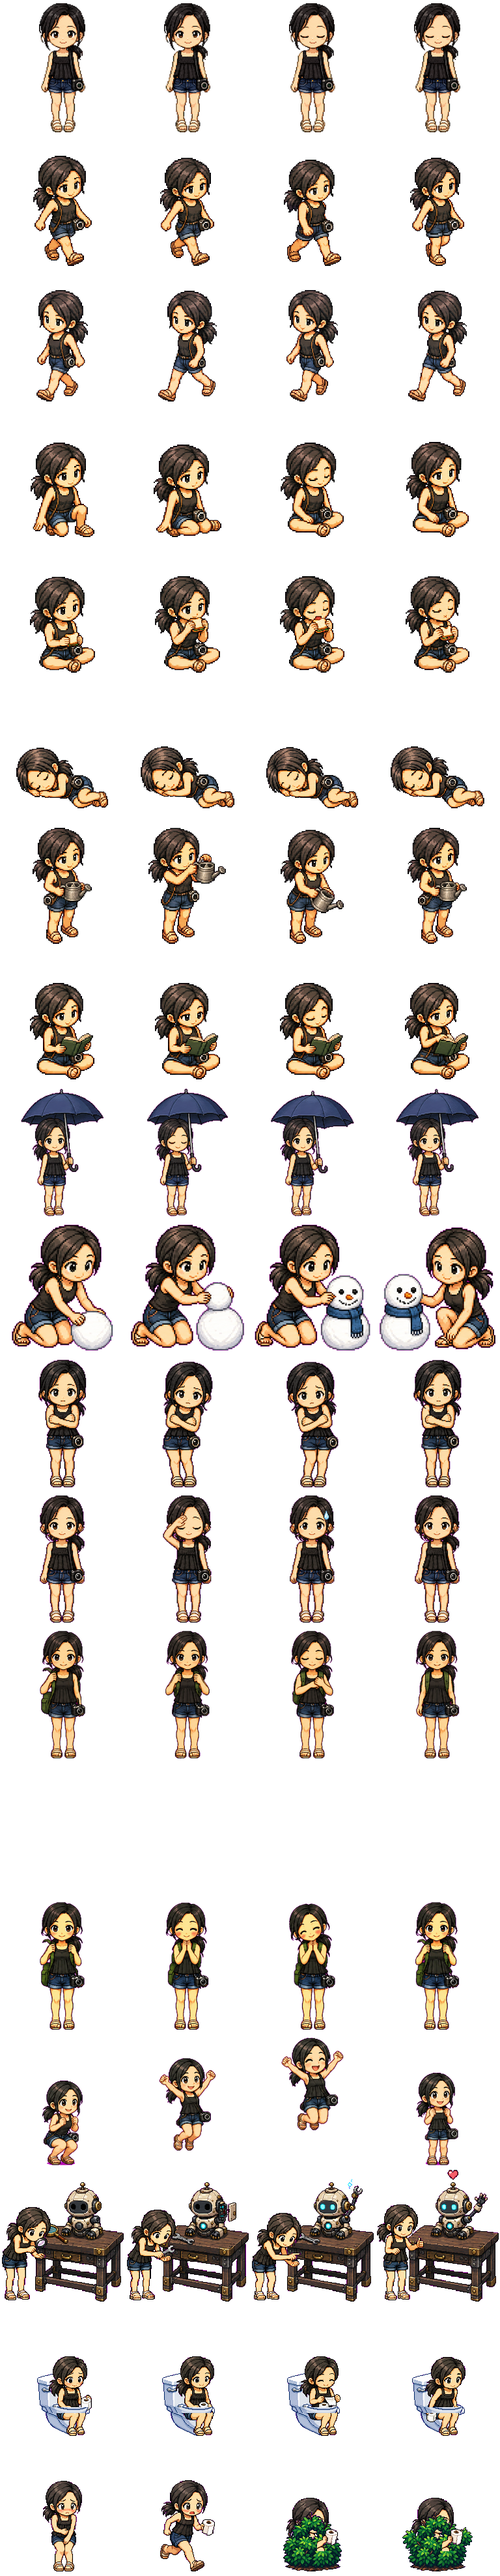
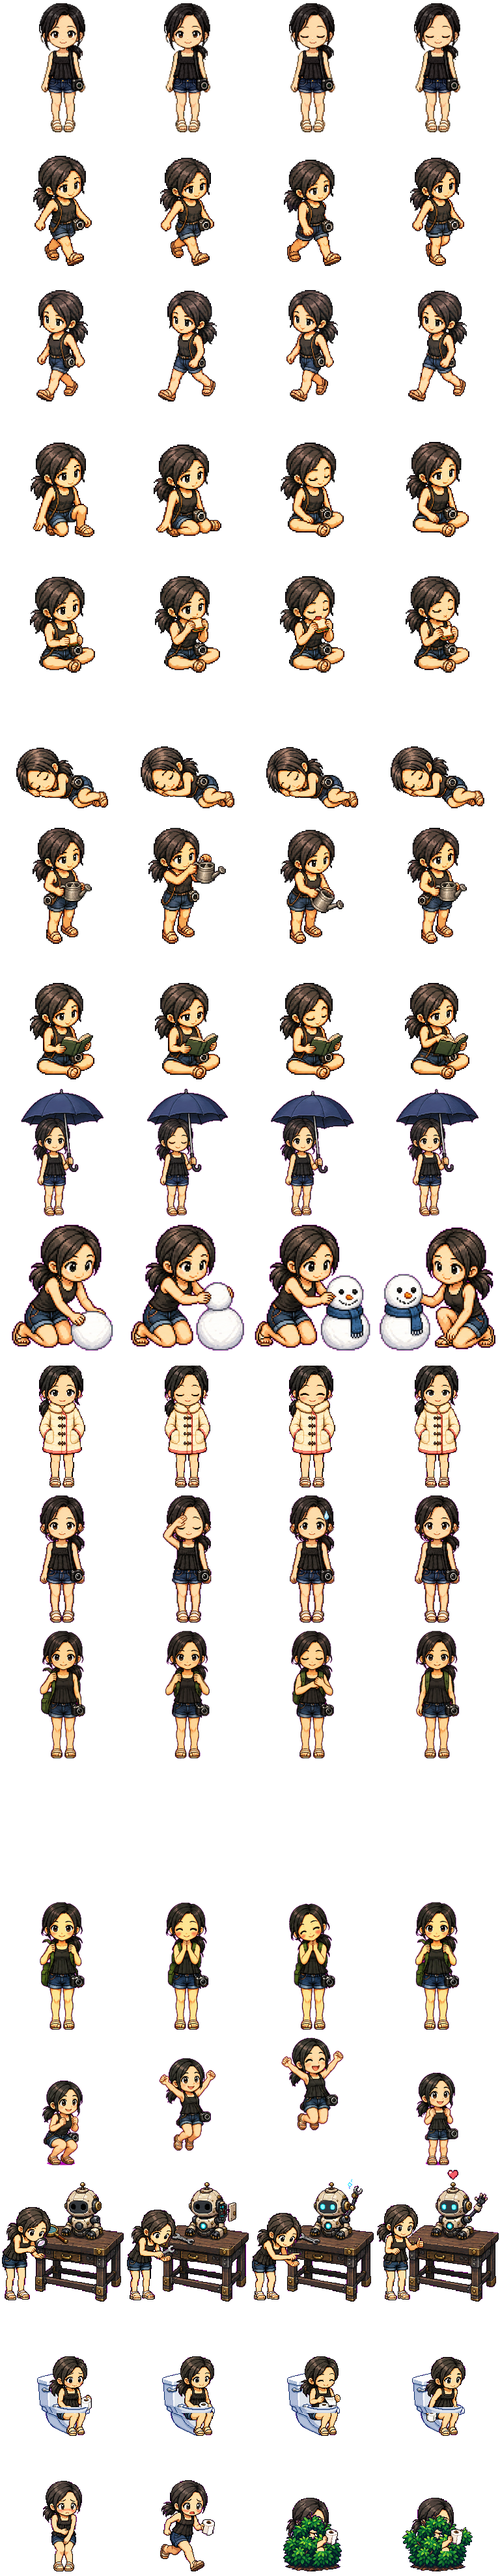
Replace cold shiver with cozy winter coat

diff --git a/tools/composite_generated_life_rows.py b/tools/composite_generated_life_rows.py
@@ -41,6 +41,12 @@ BUSH_BOXES = [
     (122, 160, 684, 730),
     (947, 161, 1621, 732),
 ]
+WINTER_COAT_BOXES = [
+    (165, 107, 393, 725),
+    (637, 107, 864, 725),
+    (1109, 107, 1337, 725),
+    (1581, 107, 1808, 725),
+]
 
 
 def chroma_key(image: Image.Image) -> Image.Image:
@@ -119,6 +125,35 @@ def build_mechanic_row(root: Path) -> Image.Image:
         sophie_position = (3, CELL_HEIGHT - sophie.height - 7)
         composite_checked(cell, prop, prop_position, "mechanic props")
         composite_checked(cell, sophie, sophie_position, "mechanic Sophie")
+        row.alpha_composite(cell, (frame * CELL_WIDTH, 0))
+    return row
+
+
+def build_winter_coat_row(root: Path) -> Image.Image:
+    sheet = Image.open(root / "art/weather-actions/winter-coat.png")
+    sprites = [extract(sheet, box) for box in WINTER_COAT_BOXES]
+    if len(sprites) != FRAME_COUNT:
+        raise ValueError("Winter-coat source frame count is not four")
+    row = Image.new("RGBA", (CELL_WIDTH * FRAME_COUNT, CELL_HEIGHT))
+    for frame, sprite in enumerate(sprites):
+        cell = Image.new("RGBA", (CELL_WIDTH, CELL_HEIGHT))
+        alpha = sprite.getchannel("A")
+        alpha.paste(
+            0,
+            (
+                0,
+                0,
+                sprite.width,
+                15,
+            ),
+        )
+        sprite.putalpha(alpha)
+        sprite = resize(sprite, 0.31)
+        position = (
+            round((CELL_WIDTH - sprite.width) / 2),
+            CELL_HEIGHT - sprite.height - 6,
+        )
+        composite_checked(cell, sprite, position, "winter-coat Sophie")
         row.alpha_composite(cell, (frame * CELL_WIDTH, 0))
     return row
 
@@ -241,12 +276,25 @@ def main() -> None:
     root = Path(__file__).resolve().parents[1]
     atlas_path = root / "SophieDesktopPet/Assets/sophie-life.png"
     base_path = root / "art/base/sophie-life-base-16rows.png"
-    preserved = Image.open(base_path).convert("RGBA")
+    base = Image.open(base_path).convert("RGBA")
     expected_base_size = (CELL_WIDTH * FRAME_COUNT, 16 * CELL_HEIGHT)
-    if preserved.size != expected_base_size:
+    if base.size != expected_base_size:
         raise ValueError(
-            f"Base atlas has size {preserved.size}, expected {expected_base_size}"
+            f"Base atlas has size {base.size}, expected {expected_base_size}"
         )
+    preserved = base.copy()
+    winter_coat_row = build_winter_coat_row(root)
+    preserved.paste(winter_coat_row, (0, 10 * CELL_HEIGHT))
+    if ImageChops.difference(
+            base.crop((0, 0, base.width, 10 * CELL_HEIGHT)),
+            preserved.crop((0, 0, base.width, 10 * CELL_HEIGHT)),
+    ).getbbox() is not None:
+        raise ValueError("Rows 0-9 changed while replacing winter coat")
+    if ImageChops.difference(
+            base.crop((0, 11 * CELL_HEIGHT, base.width, base.height)),
+            preserved.crop((0, 11 * CELL_HEIGHT, base.width, base.height)),
+    ).getbbox() is not None:
+        raise ValueError("Rows 11-15 changed while replacing winter coat")
     mechanic_row = build_mechanic_row(root)
     toilet_row = build_toilet_row(root)
     urgent_row = build_urgent_bush_row(root)
@@ -262,9 +310,11 @@ def main() -> None:
     update_path = root / "art/update-action/update-research.png"
     toilet_path = root / "art/bathroom-actions/toilet-break.png"
     urgent_path = root / "art/bathroom-actions/urgent-bush.png"
+    winter_coat_path = root / "art/weather-actions/winter-coat-row.png"
     save_png_atomic(mechanic_row, update_path)
     save_png_atomic(toilet_row, toilet_path)
     save_png_atomic(urgent_row, urgent_path)
+    save_png_atomic(winter_coat_row, winter_coat_path)
     save_preview(mechanic_row, update_path.with_name(
         "update-research-preview.png"
     ))
@@ -273,6 +323,9 @@ def main() -> None:
     ))
     save_preview(urgent_row, urgent_path.with_name(
         "urgent-bush-preview.png"
+    ))
+    save_preview(winter_coat_row, winter_coat_path.with_name(
+        "winter-coat-preview.png"
     ))
     atlas_temporary = atlas_path.with_name(atlas_path.name + ".tmp")
     atlas_temporary.unlink(missing_ok=True)

diff --git a/SophieDesktopPet/PetState.cs b/SophieDesktopPet/PetState.cs
@@ -18,7 +18,7 @@ internal enum PetState
     Reading,
     RainUmbrella,
     Snowman,
-    Shiver,
+    WinterCoat,
     Sweat,
     BackpackOuting,
     Affectionate,
@@ -42,7 +42,7 @@ internal static class LifeAnimations
         PetState.Reading => new(7, 4, true),
         PetState.RainUmbrella => new(8, 4, true),
         PetState.Snowman => new(9, 4, false),
-        PetState.Shiver => new(10, 4, true),
+        PetState.WinterCoat => new(10, 4, true),
         PetState.Sweat => new(11, 4, true),
         PetState.BackpackOuting => new(12, 4, false),
         PetState.Affectionate => new(14, 4, true),

diff --git a/SophieDesktopPet/PetWindow.cs b/SophieDesktopPet/PetWindow.cs
@@ -604,7 +604,7 @@ internal sealed class PetWindow : Window
         if (temperature is <= 5 && _random.Next(100) < 35)
         {
             BeginPositionedActivity(
-                PetState.Shiver, _random.Next(35, 66), island, 195);
+                PetState.WinterCoat, _random.Next(35, 66), island, 195);
             return true;
         }
 

diff --git a/tools/build_weather_life_atlas.py b/tools/build_weather_life_atlas.py
@@ -14,7 +14,7 @@ COLUMNS = 4
 WEATHER_ROWS = (
     ("rain", 8),
     ("snowman", 9),
-    ("shiver", 10),
+    ("winter-coat", 10),
     ("sweat", 11),
 )
 

diff --git a/README.zh-CN.md b/README.zh-CN.md
@@ -15,13 +15,13 @@
 
 - macOS 原生透明、无边框、始终置顶的小桌宠窗口。
 - 18 种四帧像素动画：待机、左右行走、坐下、吃东西、睡觉、
-  浇花、看书、雨天打伞、堆雪人、冷天发抖、热天擦汗、背包郊游、喜欢表情
+  浇花、看书、雨天打伞、堆雪人、冷天穿小棉袄、热天擦汗、背包郊游、喜欢表情
   和开心跳跃，以及修理更新机器人、拿纸坐马桶、脸红着急后躲进草丛。
 - 每帧固定显示 500ms；每次待机 20 秒后保证播放一个非待机随机动作。
 - 通过 [ipwho.is](https://ipwho.is/) 自动估算大致位置，并从
   [Open-Meteo](https://open-meteo.com/) 获取当前天气。
 - 天气每 15 分钟刷新一次；失败后会在 2 分钟后重试。
-- 待机始终保持正面 Sophie；晴天自动天气时，冷天会随机发抖、热天会随机
+- 待机始终保持正面 Sophie；晴天自动天气时，冷天会随机穿上小棉袄、热天会随机
   擦汗，雨雪则优先出现打伞或堆雪人。不显示具体温度数字；右侧对称的像素
   温度计用四档颜色与高度表示温度。
 - 手动选择天气会暂停自动天气，直到选择“恢复自动定位天气”。

diff --git a/README.md b/README.md
@@ -17,7 +17,7 @@
 - Transparent, frameless, always-on-top macOS desktop pet.
 - Eighteen four-frame pixel animations: idle, walking
   right, walking left, sitting, eating, sleeping, gardening, reading, rain
-  umbrella, snowman building, shivering, cooling down, backpack outings, and
+  umbrella, snowman building, a cozy winter coat, cooling down, backpack outings, and
   joyful jumps, an affectionate expression, update-robot repair, a toilet-paper
   break, and a blushing urgent search for a private bush.
 - Every frame is held for 500 ms. A guaranteed activity cycle follows 20
@@ -26,7 +26,7 @@
   conditions from [Open-Meteo](https://open-meteo.com/).
 - Weather refreshes every 15 minutes and retries after 2 minutes on failure.
 - Sophie keeps a front-facing idle pose. In clear automatic weather, cold
-  conditions can make her shiver and heat can make her wipe her brow; rain and
+  conditions can put her in a little padded coat and heat can make her wipe her brow; rain and
   snow take precedence with umbrella and snowman activities. No temperature
   number is displayed: the symmetric right-side pixel thermometer uses four
   visual levels.

diff --git a/art/weather-actions/README.md b/art/weather-actions/README.md
@@ -5,7 +5,8 @@ by the application:
 
 - `rain-umbrella.png` — looping umbrella idle for rain.
 - `snowman.png` — one-way snowman-building sequence; the final pose is held.
-- `shiver.png` — looping cold-weather shiver.
+- `winter-coat.png` — generated source strip for a cozy padded-coat idle.
+- `winter-coat-row.png` — keyed and scaled four-frame production row.
 - `sweat.png` — looping hot-weather brow wipe.
 
 `tools/build_weather_life_atlas.py` deterministically normalizes their
